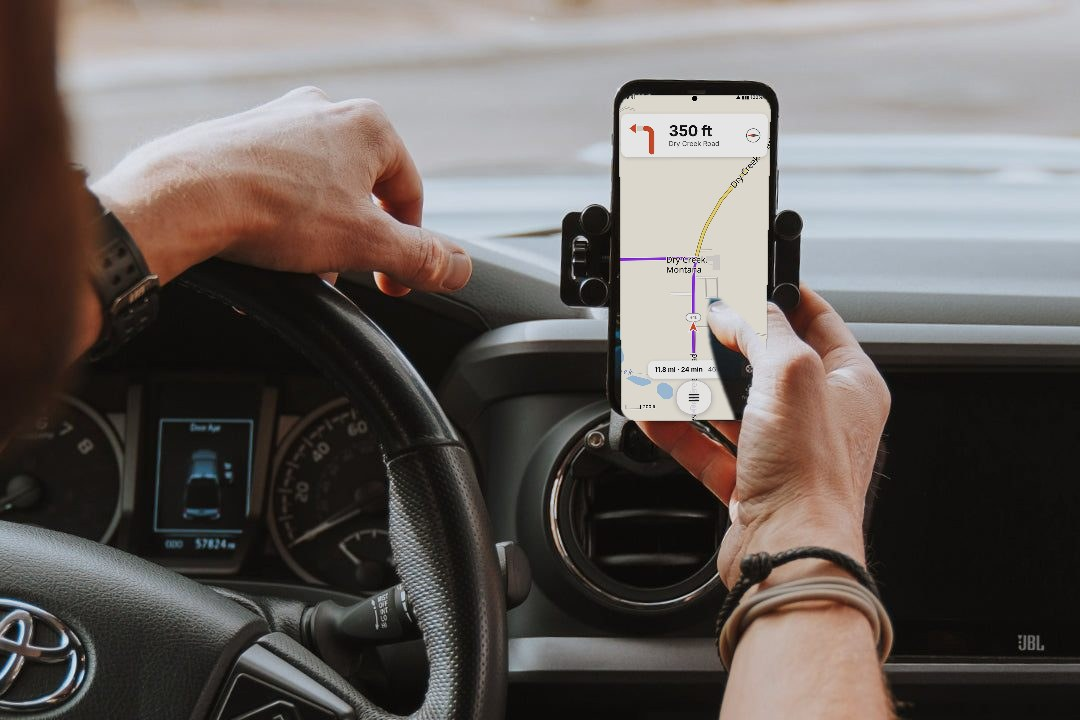
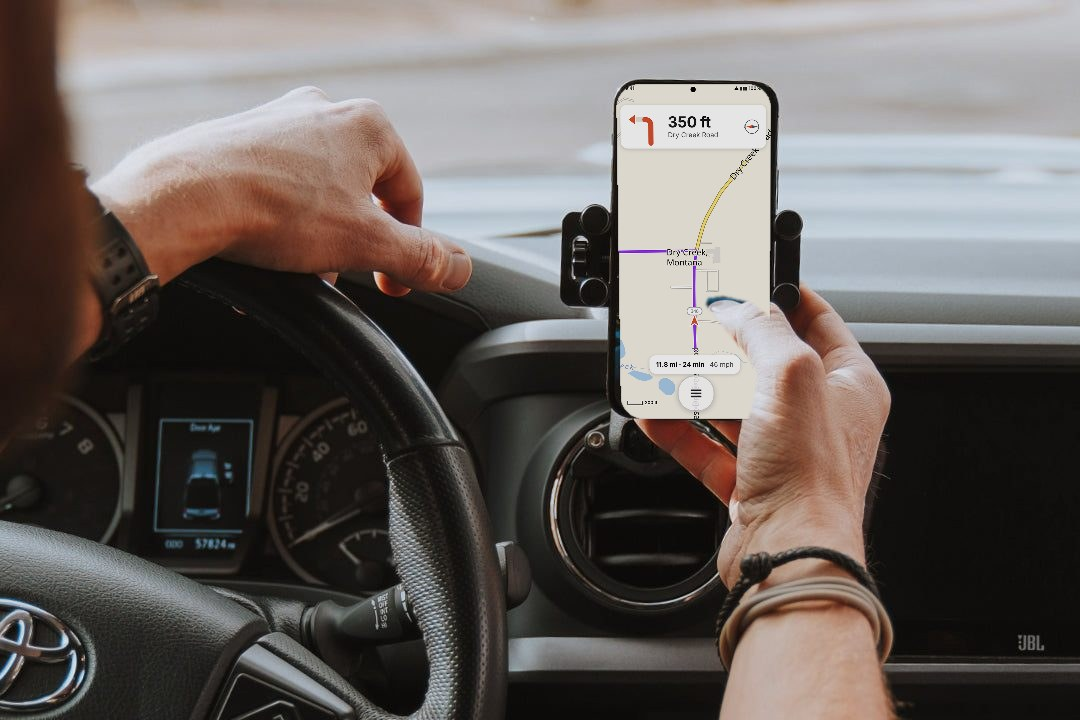
Site: align the composited screen with the phone; make the demo's pips play on phones
The dash-mount photo's screen quad was measured from the bezel this time, so the riding
screen fills the phone edge to edge, and the thumb mask follows the thumb. The turn demo
unlocks its AudioContext with a silent buffer inside the tap, and resumes it before each
pip and the chime, since the system voice can take audio focus on Android and leave the
context suspended. The fine print says to turn the media volume up.

Claude-Session: https://claude.ai/code/session_01Fg8i2xU4nFCZ9SJcL1pQJM

Changed region(s): [[0.55, 0.0917, 0.7333, 0.6111], [0.7028, 0.3056, 0.7333, 0.3667]]

diff --git a/web/site/site.js b/web/site/site.js
@@ -52,7 +52,8 @@
     });
     return buf;
   };
-  const play = (buf) => { const s = ac.createBufferSource(); s.buffer = buf; s.connect(ac.destination); s.start(); };
+  // On Android, the system voice can take audio focus and suspend the context mid-demo; resume before each sound.
+  const play = (buf) => { if (ac.state !== 'running') ac.resume().catch(() => {}); const s = ac.createBufferSource(); s.buffer = buf; s.connect(ac.destination); s.start(); };
   const pip = (progress) => { const step = Math.floor(Math.max(0, Math.min(1, progress)) * 16); play(render([[520 * Math.pow(2, step / 16), 70]])); };
   const chime = () => play(render([[1040, 90], [1320, 160]], 20));
   const pipInterval = (p) => 1600 - 1350 * Math.max(0, Math.min(1, p));
@@ -63,7 +64,10 @@
   btn.onclick = () => {
     if (running) { stop(); cap.textContent = ''; dist.textContent = '400 ft'; fill.setAttribute('y', 100); return; }
     if (!ac) ac = new (window.AudioContext || window.webkitAudioContext)();
-    if (ac.state === 'suspended') ac.resume();
+    // Phones: the context must be unlocked inside the tap. A silent buffer started here does that
+    // (iOS and some Android browsers ignore the first resume() otherwise).
+    try { const u = ac.createBufferSource(); u.buffer = ac.createBuffer(1, 1, ac.sampleRate); u.connect(ac.destination); u.start(); } catch {}
+    if (ac.state !== 'running') ac.resume().catch(() => {});
     running = true; btn.textContent = '■ Stop';
     // one approach: 120 m out at 12 m/s (27 mph) is ten seconds; the app speaks about fifteen seconds out, so the words come first
     const total = 10000, speed = 12;

diff --git a/web/site/index.html b/web/site/index.html
@@ -39,7 +39,7 @@
       <h2>Hear the turn coming.</h2>
       <p class="sub">Hear the cue, then follow the rising pips as the turn approaches. A chime marks the turn.</p>
       <p><button class="cta" id="demoPlay" type="button">▶ Play a turn</button> <span id="demoCap" class="muted small" aria-live="polite"></span></p>
-      <p class="fine">Demo uses your browser's voice. Pips and chime match the app.</p>
+      <p class="fine">Demo uses your browser's voice. Pips and chime match the app. On a phone, turn the media volume up; an iPhone's mute switch silences them.</p>
     </div>
     <div class="hud-demo" id="hudDemo" aria-hidden="true">
       <svg viewBox="0 0 100 100" width="84" height="84"><defs><clipPath id="fillClip"><rect id="fillRect" x="0" y="100" width="100" height="100"/></clipPath></defs>
